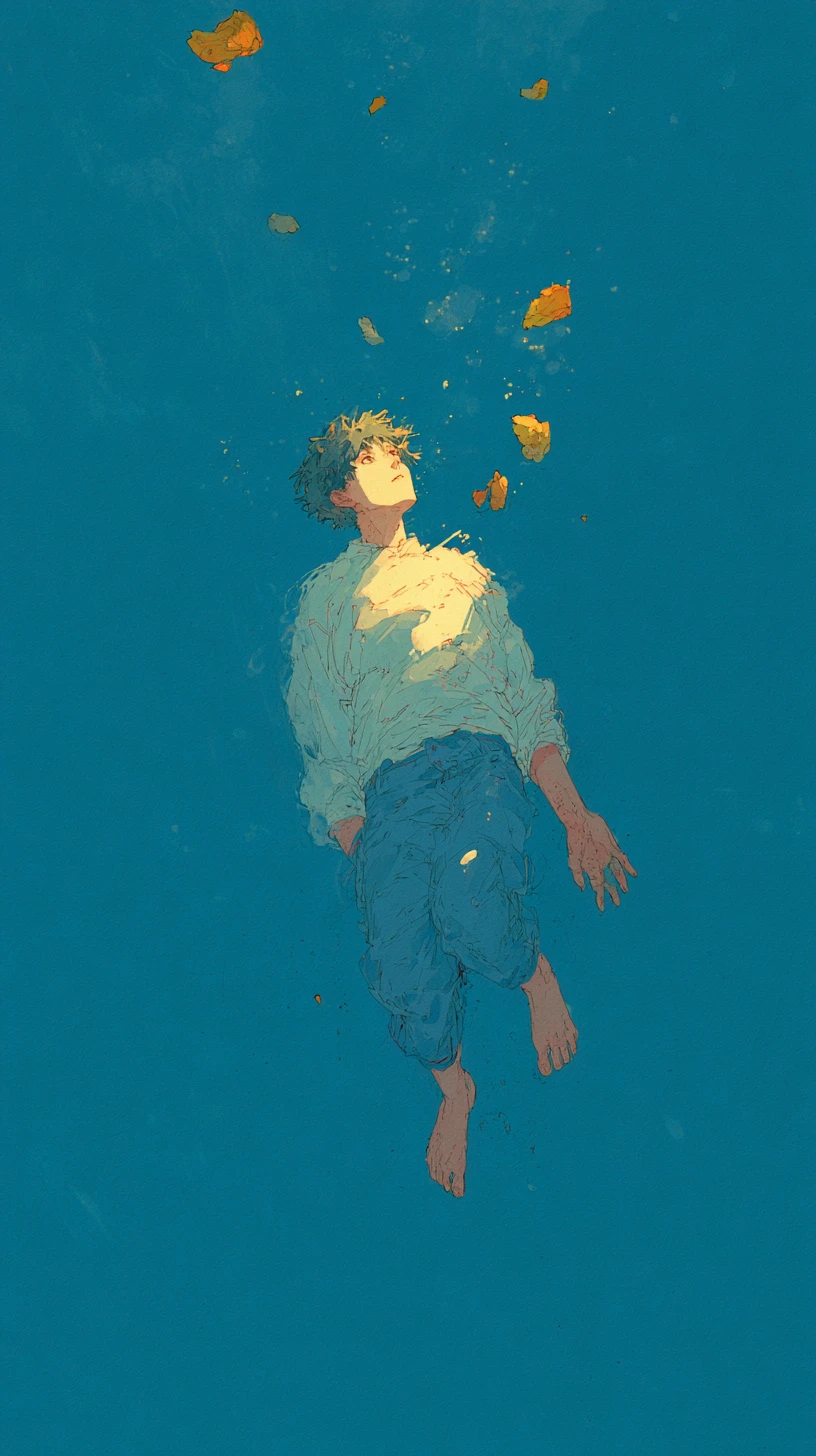
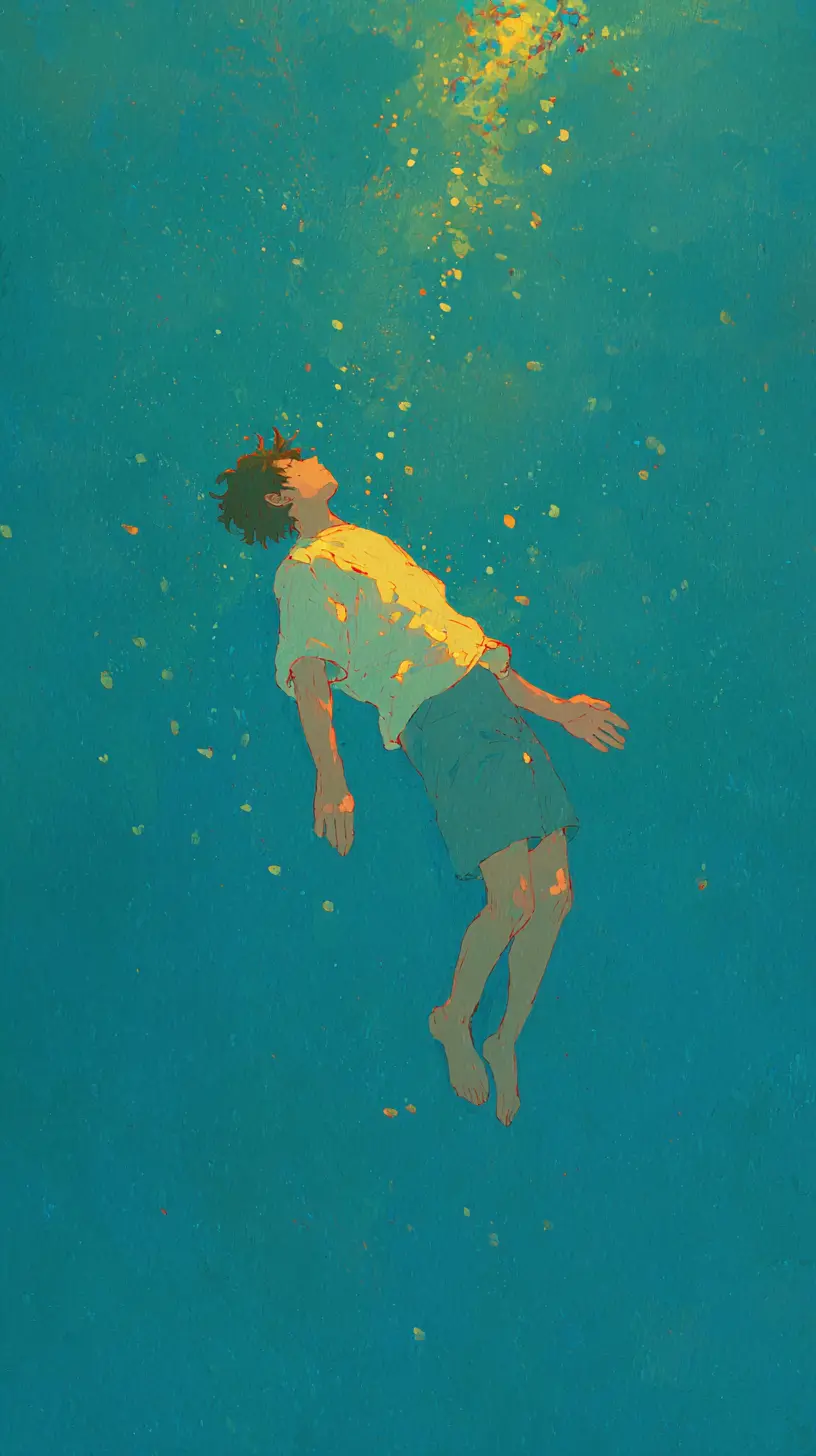
feat: add chapter 8 and update cache version for service worker

diff --git a/chapters/chapter-8.js b/chapters/chapter-8.js
@@ -1,0 +1,36 @@
+// ── บทที่ 8 — ตลิ่งสองฝั่ง ──
+
+window.__SAP_CHAPTER__({
+  chapter: 8,
+  title: "ตลิ่งสองฝั่ง",
+  subtitle: "อิสระที่ไม่มีขอบ บางทีก็เป็นแค่แอ่งน้ำนิ่ง",
+  heroImage: "SAP-08.webp",
+  heroCaption: "ตลิ่งไม่ได้ขังน้ำไว้ — มันทำให้น้ำได้ไปถึงทะเล",
+
+  blocks: [
+    { type: "text",
+      body: "ในฝันคืนนี้ ซิป ยืนอยู่บนที่ราบกว้างที่มีน้ำแผ่เต็มไปหมด\nน้ำตื้น ๆ ไหลไปได้ทุกทิศทางที่มันอยากไป ไม่มีขอบ ไม่มีใครกั้น — ตอนแรกมันดูเหมือนอิสระที่สุดในโลก" },
+
+    { type: "text",
+      body: "แต่พอมองอยู่นาน ๆ เขาก็เห็นความจริงอีกด้าน\nน้ำที่ไปได้ทุกที่ สุดท้ายกลับไม่ได้ไปไหนเลย มันแผ่บางลงเรื่อย ๆ นิ่ง ขุ่น แล้วก็ค่อย ๆ ซึมหายไปกับดิน\nอิสระที่ไม่มีขอบ กลายเป็นแค่แอ่งน้ำที่รอวันแห้ง" },
+
+    { type: "text",
+      body: "ไกลออกไปหน่อย เขาเห็นน้ำอีกสาย\nสายนั้นมีตลิ่งสองฝั่งประคองมันไว้ — และเพราะมีฝั่งนั่นเอง น้ำจึงไหลได้ลึก ใส และเร็ว มีเสียง มีทิศทาง มุ่งไปทางทะเลอย่างมีชีวิต" },
+
+    { type: "text",
+      body: "ซิป เคยคิดมาตลอดว่ากฎเกณฑ์คือสิ่งที่แย่งอิสระไปจากเรา\nส่วนหนึ่งในใจเขายังอยากเป็นน้ำที่ไหลไปไหนก็ได้ ไม่ต้องมีฝั่งมาคอยบังคับ\n‘ตลิ่งมันก็แค่กรอบที่คอยขังเราไว้ไม่ใช่เหรอ’ — เขาคิด" },
+
+    { type: "text",
+      body: "แต่ยิ่งมองสายน้ำที่มีฝั่ง เขาก็ยิ่งเข้าใจ\nตลิ่งไม่ได้ขังน้ำ — มันให้น้ำมีที่ทางที่จะไปต่อ\nถ้าไม่มีขอบเลย น้ำก็ไม่ได้เป็นอิสระจริง มันแค่กระจายจนหมดแรง แล้วหายไปเฉย ๆ โดยไม่ทันได้ไปถึงไหน" },
+
+    { type: "text",
+      body: "เขาย่อตัวลง เริ่มใช้มือขุดร่องเล็ก ๆ ให้น้ำตรงหน้า\nดินแข็งกว่าที่คิด ขุดได้ทีละนิด เมื่อยและช้า\nแต่ทุกกำมือที่เขาตักดินออก น้ำก็ไหลตรงขึ้นอีกหน่อย ใสขึ้นอีกนิด — ระเบียบไม่ได้มาฟรี ๆ มันต้องค่อย ๆ ฝึกและลงแรงเอา" },
+
+    { type: "quote",
+      body: "อิสระที่แท้จริง ไม่ใช่การไม่มีขอบ — แต่คือการมีตลิ่งที่เราตั้งใจสร้างเอง จนน้ำในตัวเราไหลได้ลึกพอจะไปถึงทะเล",
+      by: "— ซิป" },
+
+    { type: "text",
+      body: "ซิป ยืนขึ้น มองน้ำในร่องที่เขาขุด เริ่มมีทิศทางของมันเอง\nเขายังขุดไม่เสร็จ และรู้ว่าพรุ่งนี้ก็ต้องมาขุดต่อ วันแล้ววันเล่า\nแต่คราวนี้เขาไม่ได้รู้สึกว่ากำลังถูกขัง — เขากำลังสร้างฝั่งที่จะพาตัวเองไปข้างหน้า\nแล้วเป็นครั้งแรกที่เขารู้สึกว่า การอดทนกับตัวเอง ก็เป็นอีกแบบหนึ่งของการรักตัวเองเหมือนกัน" }
+  ]
+});

diff --git a/chapters/index.js b/chapters/index.js
@@ -37,5 +37,10 @@ window.__SAP_CHAPTERS__([
     chapter: 7,
     title: "สวนของคนอื่น",
     subtitle: "มองเพื่อเข้าใจ ไม่ใช่เพื่อตัดสิน"
+  },
+  {
+    chapter: 8,
+    title: "ตลิ่งสองฝั่ง",
+    subtitle: "อิสระที่ไม่มีขอบ บางทีก็เป็นแค่แอ่งน้ำนิ่ง"
   }
 ]);

diff --git a/sw.js b/sw.js
@@ -1,4 +1,4 @@
-const CACHE_NAME = 'sap-cache-v6';
+const CACHE_NAME = 'sap-cache-v7';
 
 /* Only precache what's needed for first paint + first chapter */
 const PRECACHE = [
